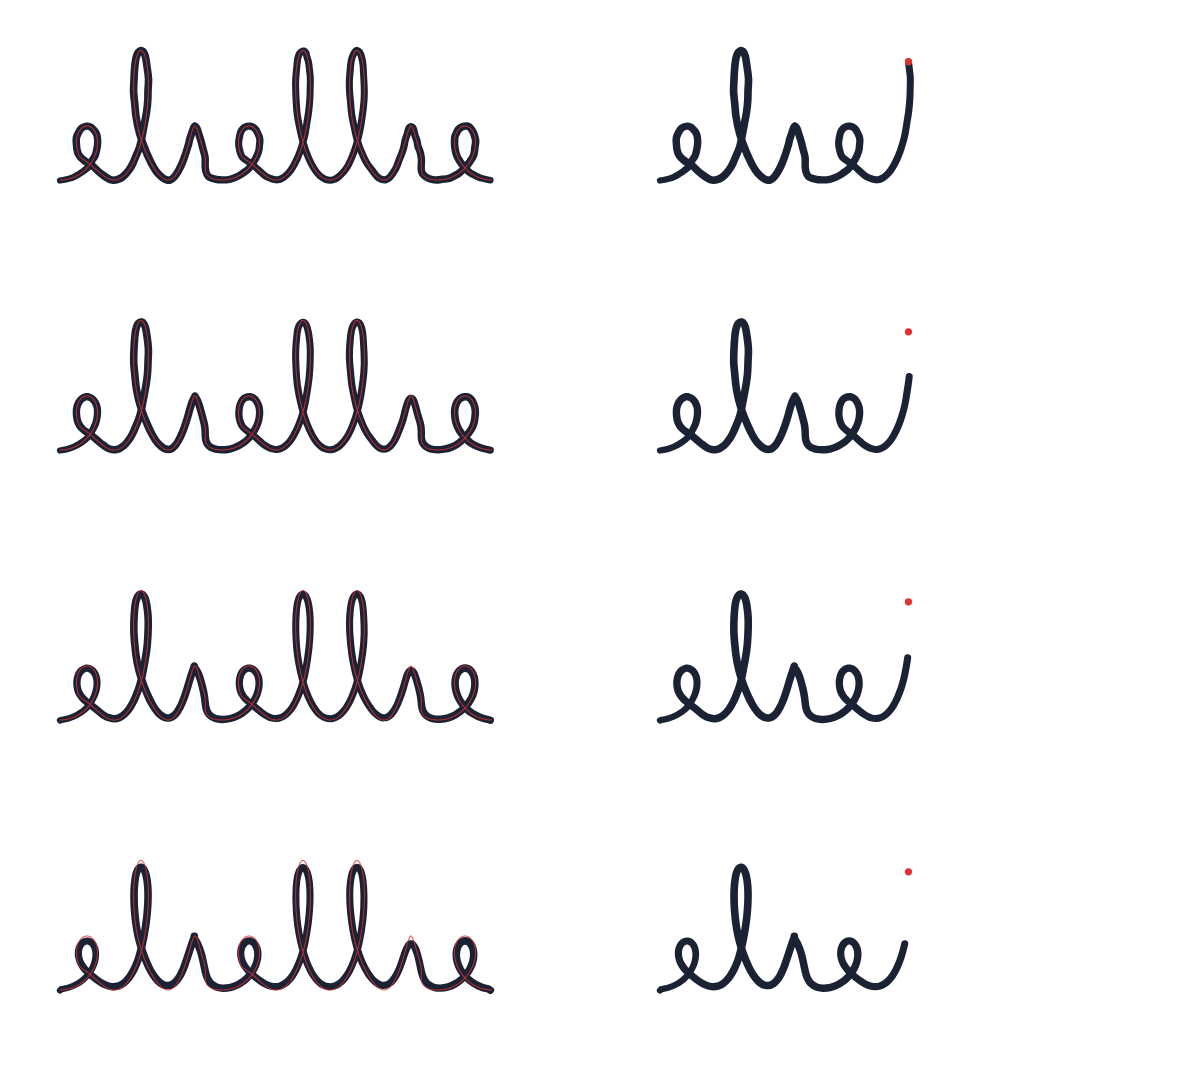
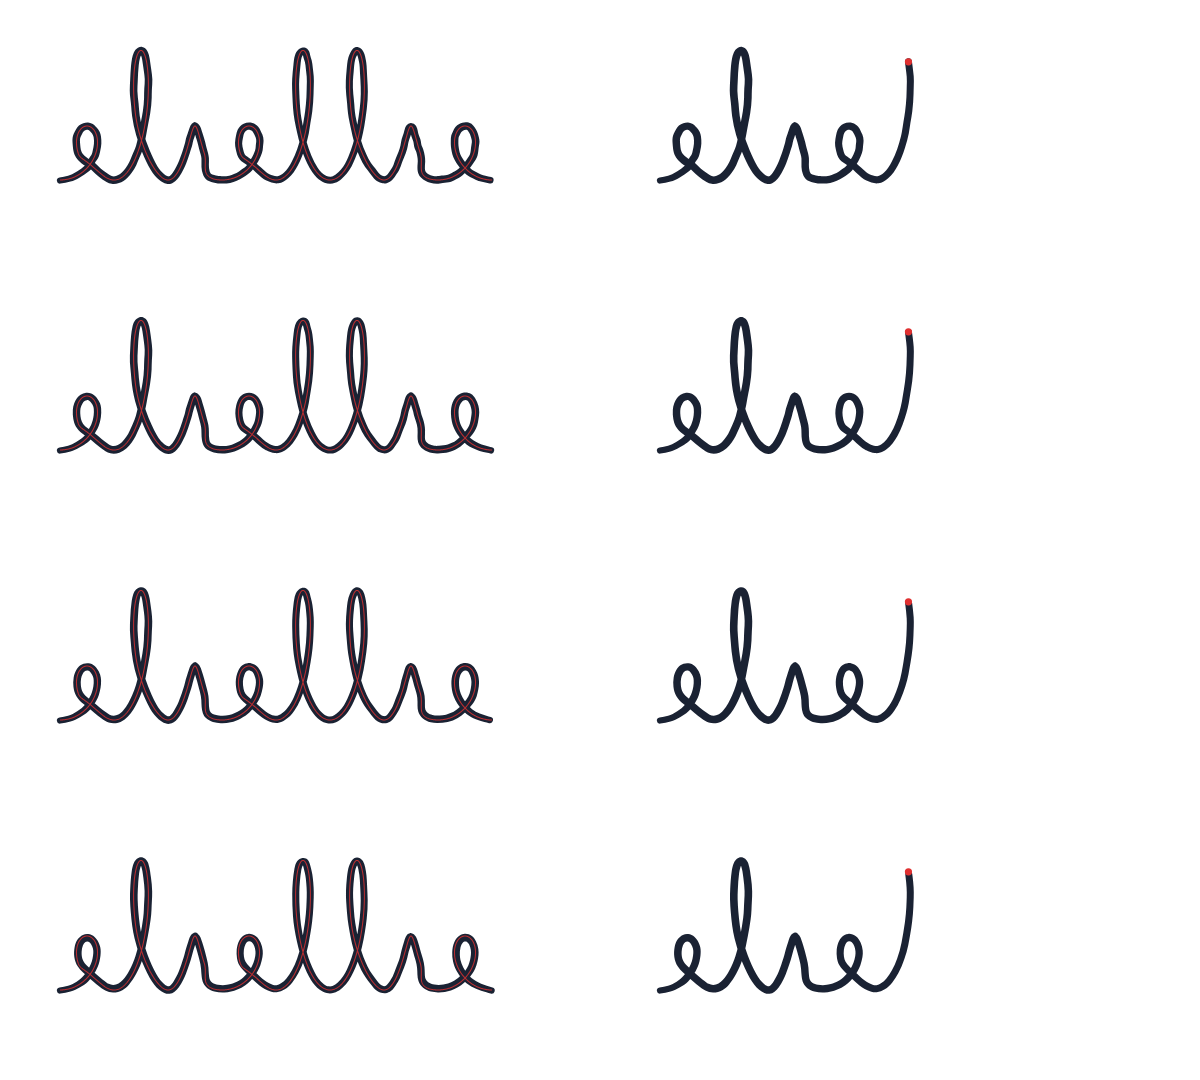
Stabiliser sheets: before (the speed-adaptive filter) and after (the string), and their generator

diff --git a/app/test/inklab/tools/stabiliser_sheets_test.dart b/app/test/inklab/tools/stabiliser_sheets_test.dart
@@ -1,0 +1,128 @@
+// Writes the stabiliser's sheets (docs/inklab/stabiliser/after_*.png; opt-in):
+//
+//   flutter test test/inklab/tools/stabiliser_sheets_test.dart \
+//     --dart-define=STABILISER_SHEETS=<output dir>
+//
+// Fast cursive and a slow, shaky line, one row per stabiliser (0, 30, 60,
+// 100 %; skipped without the define): left the committed stroke over the pen's path (red), right a
+// live frame part way through, with the string and the pen (red dot).
+@Tags(['inklab'])
+library;
+
+import 'dart:io';
+import 'dart:math' as math;
+import 'dart:ui' as ui;
+
+import 'package:flutter/material.dart';
+import 'package:flutter_test/flutter_test.dart';
+import 'package:len/data/app_database.dart';
+import 'package:len/data/stroke_repository.dart';
+import 'package:len/ink/input/live_ink.dart';
+import 'package:len/ink/lab/raw_samples.dart';
+import 'package:len/ink/lab/replay.dart';
+import 'package:len/ink/render/ink_painters.dart';
+import 'package:len/ink/render/stroke_renderer.dart';
+import 'package:len/ink/surface_model.dart';
+import 'package:len/ink/viewport.dart';
+
+import '../sim/cases.dart';
+import '../sim/digitiser.dart';
+import '../sim/pen_motion.dart';
+import '../stabiliser_speed_test.dart' show fastCursive;
+import '../stabiliser_test.dart' show shakyLine;
+
+const String _out = String.fromEnvironment('STABILISER_SHEETS');
+
+/// A panel's size (image px).
+const Size _panel = Size(600, 270);
+
+/// Renders one sheet of [motion]: [crop] (screen px) of each panel at [k]
+/// image px per screen px, the live frame at [liveAt] of the stroke.
+Future<void> _sheet(String file, PenMotion motion, Rect crop, double k, double liveAt) async {
+  const settings = [0.0, 0.3, 0.6, 1.0];
+  final recorder = ui.PictureRecorder();
+  final canvas = Canvas(recorder)..drawColor(Colors.white, BlendMode.src);
+  final red = Paint()
+    ..color = const Color(0xFFE5383B)
+    ..style = PaintingStyle.stroke
+    ..strokeWidth = 1 / k;
+  for (final (row, s) in settings.indexed) {
+    final rec = SimCase('sheet', '', [
+      SimContact(motion, start: 0),
+    ]).record(defaultPen.copyWith(streamline: s));
+    final samples = rawContacts(rec.recording).single.samples;
+    final liveUs = samples.first.timeUs + (samples.last.timeUs - samples.first.timeUs) * liveAt;
+    final db = AppDatabase.inMemory();
+    final model = SurfaceModel(
+      surfaceId: 's',
+      repository: StrokeRepository(db, deviceId: 'd'),
+    );
+    final live = LiveInk();
+    final viewport = ViewportController(minScale: 0.01, maxScale: 64);
+    final driver = ReplayDriver(rec.recording, model: model, live: live, viewport: viewport);
+    void panel(int column, void Function() paint) {
+      canvas
+        ..save()
+        ..translate(column * _panel.width, row * _panel.height)
+        ..clipRect(Offset.zero & _panel)
+        ..scale(k)
+        ..translate(-crop.left, -crop.top);
+      paint();
+      canvas.restore();
+    }
+
+    var shown = false;
+    for (var step = driver.step(); step != null; step = driver.step()) {
+      if (!shown && live.isDrawing && step.newestEventUs >= liveUs) {
+        shown = true;
+        final newest = step.newestEventUs;
+        final pen = samples.lastWhere((x) => x.timeUs <= newest).position;
+        panel(1, () {
+          LiveInkPainter(live: live, viewport: viewport, belowInk: true).paint(canvas, crop.size);
+          LiveInkPainter(live: live, viewport: viewport).paint(canvas, crop.size);
+          canvas.drawCircle(pen, 1.5, Paint()..color = const Color(0xFFE5383B));
+        });
+      }
+      for (final stroke in step.committed) {
+        panel(0, () {
+          canvas
+            ..save()
+            ..translate(viewport.offset.dx, viewport.offset.dy)
+            ..scale(viewport.scale);
+          StrokeRenderer.draw(canvas, stroke);
+          canvas.restore();
+          canvas.drawPath(Path()..addPolygon(rec.truth.single.path, false), red);
+        });
+      }
+    }
+    model.dispose();
+    live.dispose();
+    viewport.dispose();
+    db.close();
+  }
+  final w = (_panel.width * 2).round(), h = (_panel.height * settings.length).round();
+  final image = await recorder.endRecording().toImage(w, h);
+  final bytes = (await image.toByteData(format: ui.ImageByteFormat.png))!;
+  File('$_out/$file').writeAsBytesSync(bytes.buffer.asUint8List());
+}
+
+void main() {
+  testWidgets('stabiliser sheets', (tester) async {
+    await tester.runAsync(() async {
+      Directory(_out).createSync(recursive: true);
+      Rect around(PenMotion m, double k) {
+        var r = Rect.fromCircle(center: m.at(0), radius: 0);
+        for (var i = 0; i <= 400; i++) {
+          r = r.expandToInclude(Rect.fromCircle(center: m.at(m.duration * i / 400), radius: 0));
+        }
+        final size = _panel / k;
+        return Rect.fromCenter(center: r.center, width: size.width, height: size.height);
+      }
+
+      const fastK = 2.5, slowK = 1.8;
+      await _sheet('after_fast.png', fastCursive, around(fastCursive, fastK), fastK, 0.6);
+      await _sheet('after_slow.png', shakyLine, around(shakyLine, slowK), slowK, 0.6);
+      expect(math.max(fastK, slowK), greaterThan(0));
+    });
+  }, skip: _out.isEmpty);
+}

diff --git a/app/test/inklab/stabiliser_test.dart b/app/test/inklab/stabiliser_test.dart
@@ -48,6 +48,9 @@ Offset _shaky(double t) {
   return _steady(t) + n * wobble;
 }
 
+/// The shaky line: 4 s, 300 px with a 20 px bow, tremor across it.
+final PenMotion shakyLine = PenMotion(duration: _seconds, at: _shaky, pressure: (_) => 0.5);
+
 /// RMS and largest distance of [points] from the steady path.
 ({double rms, double max}) _stray(Iterable<Offset> points, PolylineIndex steady) {
   var sum = 0.0, worst = 0.0, n = 0;
@@ -63,7 +66,7 @@ Offset _shaky(double t) {
 /// Stray of the committed centre line, of each live frame's newest 12 px
 /// of drawn ink, and of the overlay's newest 12 px, at [streamline].
 Map<String, ({double rms, double max})> measure(double streamline) {
-  final motion = PenMotion(duration: _seconds, at: _shaky, pressure: (_) => 0.5);
+  final motion = shakyLine;
   final pen = defaultPen.copyWith(streamline: streamline);
   final recording = SimCase('tremor', 'shaky line', [
     SimContact(motion, start: 0),
